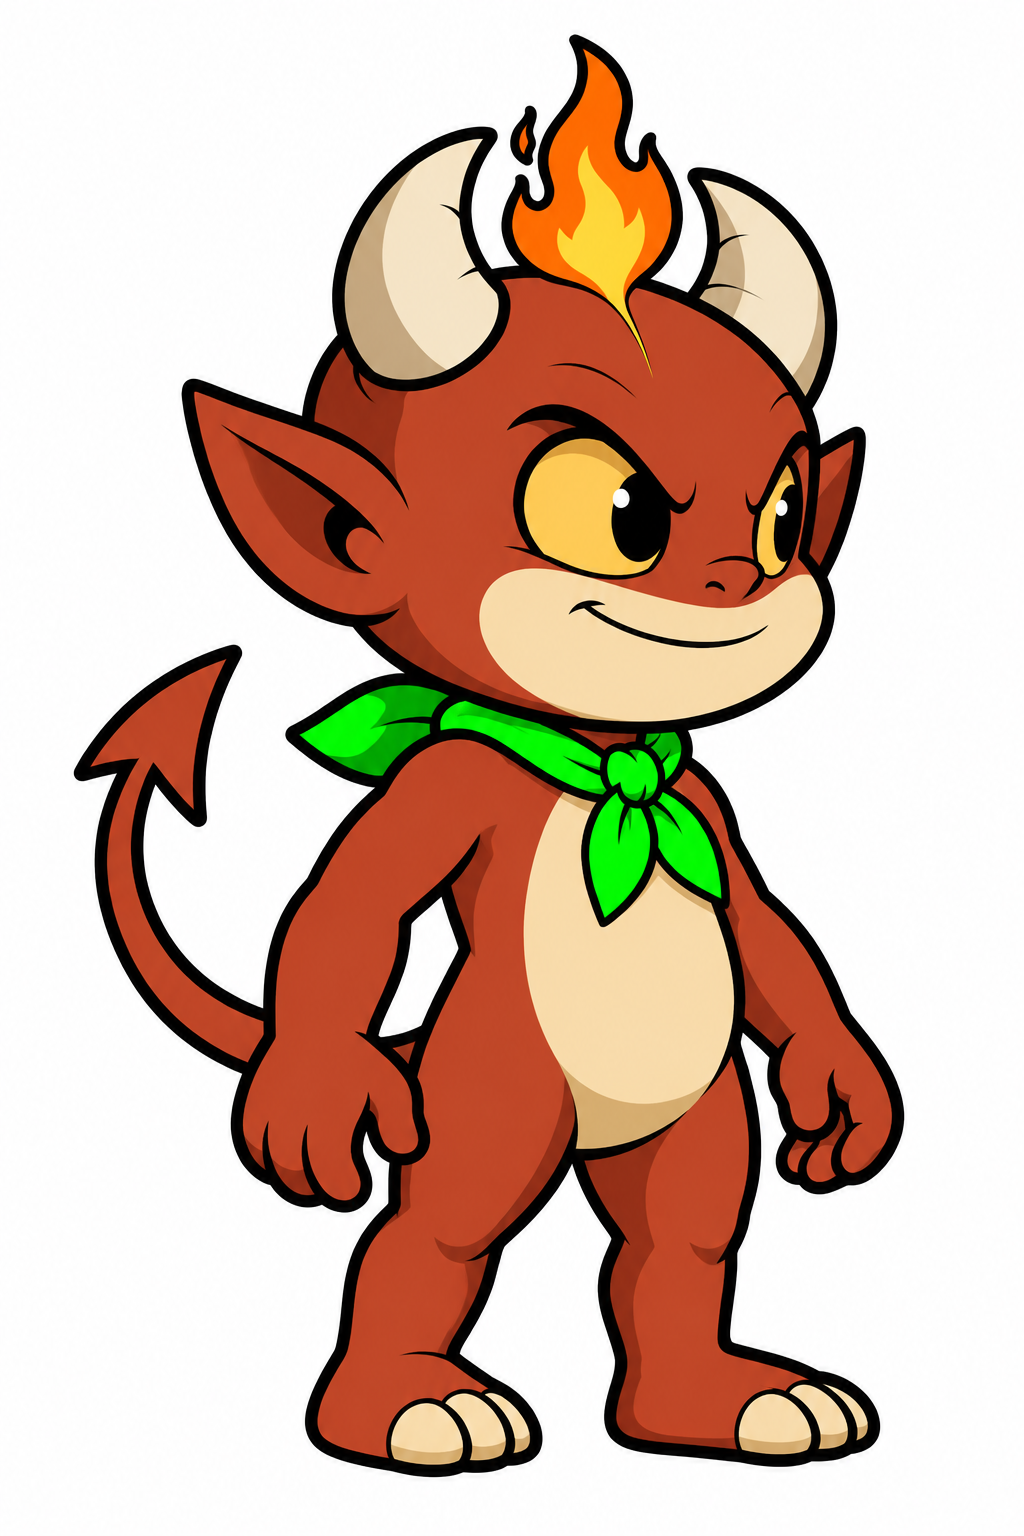
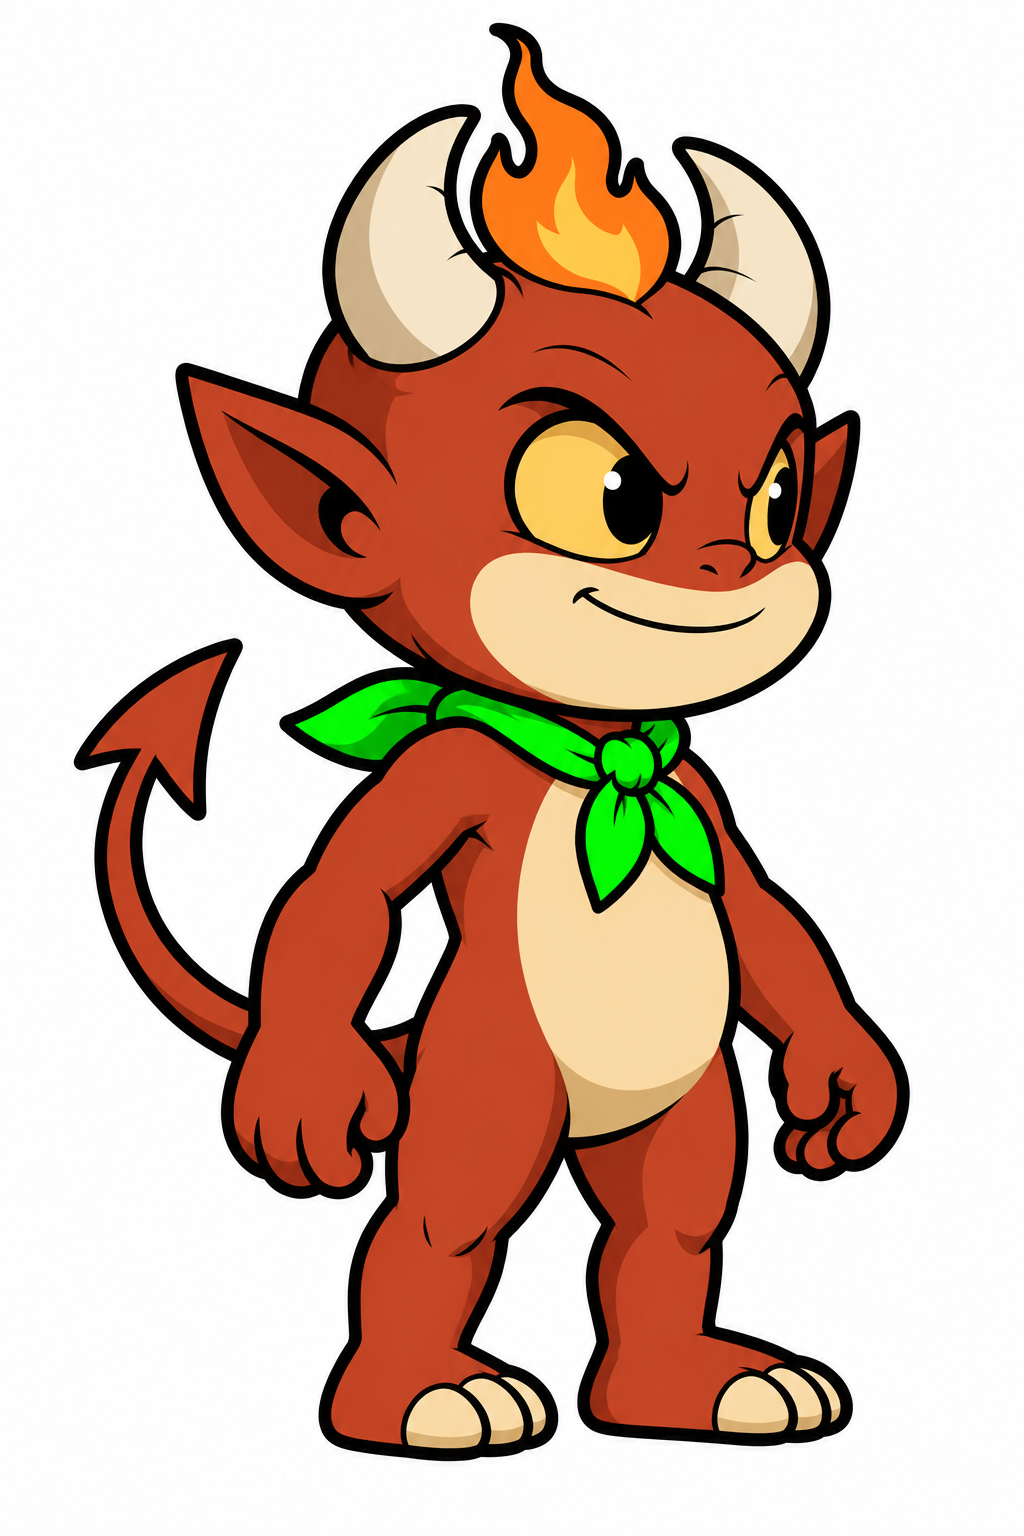
Aggiorna WB-036 con la fiamma del riferimento iniziale

Changed region(s): [[0.125, 0.0, 0.9062, 0.9688], [0.0625, 0.4062, 0.25, 0.5625], [0.0938, 0.5938, 0.125, 0.625]]

diff --git a/docs/handoff/WB-036_apprendista_intero_per_godot.md b/docs/handoff/WB-036_apprendista_intero_per_godot.md
@@ -89,4 +89,26 @@ passa dietro il braccio vicino e alcune dita restano distese.
 Sfondo e campiture mostrano lievi variazioni rispetto ai valori
 RGB esatti. Il taglio dei pezzi e la resa nel rig restano da verificare.
 
+### 2026-11-13 · Revisione con il riferimento iniziale di Sergio
+
+Quattro PNG originali da 1024 × 1536 px in `art/WB-036/`, generati con
+imagegen dalla scheda aggiornata su `main` (`86cd915e`). I TXT omonimi
+contengono il prompt integrale e R1, R2 nell'ordine indicato. Questa
+revisione sostituisce i quattro PNG e TXT della consegna precedente.
+
+| File | Tentativi | Tentativo consegnato |
+|---|---:|---:|
+| `tre_quarti_1` | 3 | 3 |
+| `tre_quarti_2` | 3 | 2 |
+| `tre_quarti_3` | 3 | 3 |
+| `tre_quarti_4` | 3 | 1 |
+
+Ho controllato figura intera, attacco della fiamma fra le corna,
+assenza di aperture e crepe luminose, fazzoletto verde, contorno
+scuro e assenza di scritte. Le quattro pose sono simili. Il piede
+vicino resta più frontale e la radice della coda passa dietro il
+braccio vicino. Alcune dita sono distese. Sfondo e campiture
+presentano variazioni rispetto ai valori RGB esatti. Restano da
+verificare il ritaglio dei pezzi e la resa nel rig.
+
 ## Resoconto di Claude
